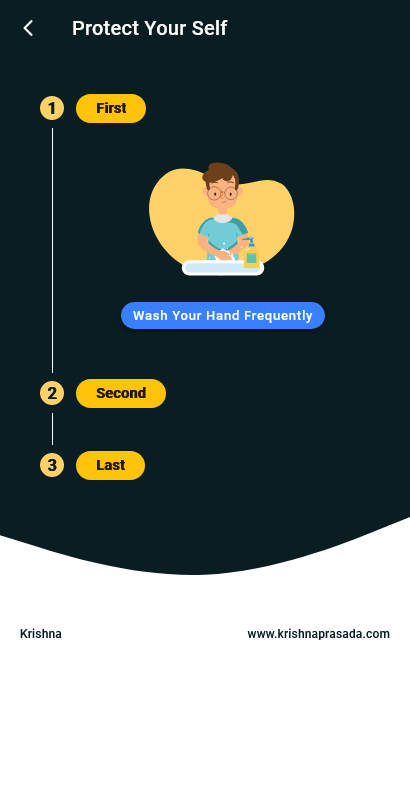
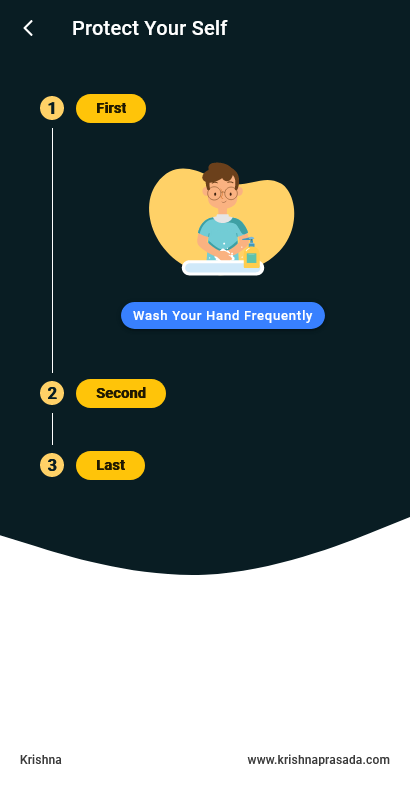
footer modification

diff --git a/src/app/welcome/welcome.page.html b/src/app/welcome/welcome.page.html
@@ -1,10 +1,8 @@
 <ion-header class="ion-no-border">
   <ion-toolbar>
     <ion-buttons slot="start">
-      <ion-back-button
-        defaultHref="/home"
-        icon="chevron-back"
-      ></ion-back-button>
+      <ion-back-button defaultHref="/home" icon="chevron-back">
+      </ion-back-button>
     </ion-buttons>
     <ion-title>Protect Your Self</ion-title>
   </ion-toolbar>
@@ -59,11 +57,13 @@
       ></path>
     </svg>
   </div>
+</ion-content>
 
+<ion-footer class="ion-no-border">
   <ion-toolbar>
     <ion-title>
       <span class="ion-float-left">Krishna</span>
       <span class="ion-float-right">www.krishnaprasada.com</span>
     </ion-title>
   </ion-toolbar>
-</ion-content>
+</ion-footer>

diff --git a/src/app/welcome/welcome.page.scss b/src/app/welcome/welcome.page.scss
@@ -41,16 +41,16 @@ ion-toolbar {
   display: block;
 }
 
-ion-content {
+img {
+  width: 200px;
+}
+
+ion-footer {
   ion-toolbar {
-    color: #091d23;
     --background: rgba(0, 0, 0, 0);
     ion-title {
+      color: rgb(59, 59, 59);
       font-size: 12px;
     }
   }
-}
-
-img {
-  width: 200px;
 }
